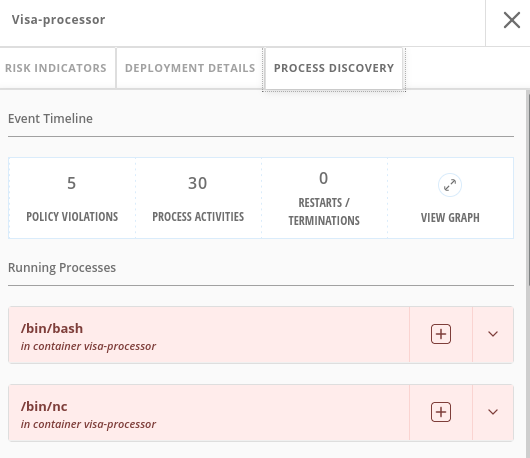
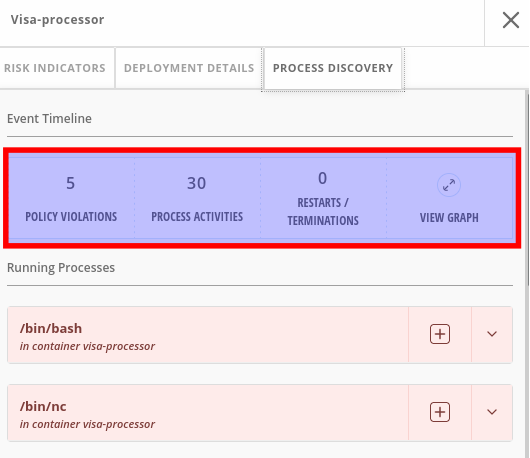
[CI] Publish Documentation for 0530393bc3b122df38d6087175308c16664949ef - 0530393bc3b122df38d6087175308c16664949ef 🚀

diff --git a/acs-workshop/05-risk.html b/acs-workshop/05-risk.html
@@ -388,10 +388,7 @@ Obviously - the first one in the list should be our first focus.</p>
 <div class="ulist">
 <ul>
 <li>
-<p>Click on the number 1 deployment, “visa-processor” to bring up the Risk Indicators</p>
-</li>
-</ul>
-</div>
+<p>Click on the number 1 deployment, <strong>visa-processor</strong> to bring up the <code>RISK INDICATORS</code></p>
 <div class="imageblock">
 <div class="content">
 <img src="_images/risks/02-risks.png" alt="ACS Risks 2" width="350">
@@ -406,20 +403,19 @@ Obviously - the first one in the list should be our first focus.</p>
 <div class="paragraph">
 <p>In addition, other configurations like privileged containers mean that a successful attacker has access to the underlying host network and filesystem, including other containers running on that host.</p>
 </div>
-<div class="ulist">
-<ul>
-<li>
-<p>Navigate to the bottom of the Risk Indicators page to the RBAC configuration section</p>
 </li>
-</ul>
-</div>
+<li>
+<p>Navigate to the bottom of the <code>RISK INDICATORS</code> page to the RBAC configuration section</p>
 <div class="imageblock">
 <div class="content">
 <img src="_images/risks/03-risks.png" alt="ACS Risks 3" width="400">
 </div>
 </div>
 <div class="paragraph">
-<p>At the bottom, we see another serious problem: the service account associated with this deployment has been given “cluster admin” privileges, which means that a successful attacker gains full control over this entire OpenShift cluster which could result in compromise of the entire cluster.</p>
+<p>At the bottom, we see another serious problem: the service account associated with this deployment has been given <code>cluster admin</code> privileges, which means that a successful attacker gains full control over this entire OpenShift cluster which could result in compromise of the entire cluster.</p>
+</div>
+</li>
+</ul>
 </div>
 <div class="paragraph">
 <p>All of these configurations are gleaned automatically by ACS from OpenShift, and the built-in policies assign a risk score to each, meaning that this Risk report is available as soon as you start running ACS.</p>
@@ -430,8 +426,7 @@ Obviously - the first one in the list should be our first focus.</p>
 <h2 id="risk_process_discovery"><a class="anchor" href="#risk_process_discovery"></a>Process Discovery / Runtime</h2>
 <div class="sectionbody">
 <div class="paragraph">
-<p>Navigate to the Process Discovery tab of the details page
-Of course, we can’t restrict ourselves to build and deploy time configuration.</p>
+<p>Navigate to the <code>PROCESS DISCOVERY</code> tab of the details page.</p>
 </div>
 <div class="paragraph">
 <p>Even a perfectly configured application has the potential for an attacker to gain access and cause havoc.</p>
@@ -442,10 +437,7 @@ Of course, we can’t restrict ourselves to build and deploy time configuration.
 <div class="ulist">
 <ul>
 <li>
-<p>Click on the Header bar in the section for Event Timeline (with View Graph in the labels toward the top</p>
-</li>
-</ul>
-</div>
+<p>Click on the header bar within the <code>Event Timeline</code> section ( in the picture, at any point on the surface covered by the red rectangle )</p>
 <div class="imageblock">
 <div class="content">
 <img src="_images/risks/04-risks.png" alt="ACS Risks 4" width="500">
@@ -454,21 +446,27 @@ Of course, we can’t restrict ourselves to build and deploy time configuration.
 <div class="paragraph">
 <p>The event timeline shows us, for each pod, the process activity that has occurred over time.</p>
 </div>
-<div class="ulist">
-<ul>
+</li>
 <li>
 <p>Click on the squares / circles for process activity</p>
-</li>
-</ul>
-</div>
 <div class="imageblock">
 <div class="content">
 <img src="_images/risks/05-risks.png" alt="ACS Risks 5" width="700">
 </div>
 </div>
 <div class="paragraph">
-<p>We can take advantage of the constrained lifecycle of containers for
-better runtime incident detection and response.</p>
+<p>If you click in the <em>greater than</em> symbol (pointed by the red arrow in the above picture) you can expand the activity and see the containers inside the pod.</p>
+</div>
+<div class="imageblock">
+<div class="content">
+<img src="_images/risks/05_1-risks.png" alt="ACS Risks 51" width="700">
+</div>
+</div>
+</li>
+</ul>
+</div>
+<div class="paragraph">
+<p>We can take advantage of the constrained lifecycle of containers for better runtime incident detection and response.</p>
 </div>
 <div class="paragraph">
 <p>Containers should be pretty boring - they’re not general purpose Virtual machines. They typically have a period of startup, with some initialization, and then settle down to a small number of processes running continuously and making or receiving connections.</p>
@@ -488,26 +486,10 @@ better runtime incident detection and response.</p>
 <p>Almost all of the attributes that ACS gathers are filterable</p>
 </div>
 <div class="paragraph">
-<p>It’s really useful here in Risk when you know what you’re looking for - when you want answers to questions like, “what applications have CVE-2020-1008 present,” or “</p>
-</div>
-<div class="ulist">
-<ul>
-<li>
-<p>Click in the Filters Bar. Start Typing “Process Name” and select the Process Name key. Type java and press enter; click away to get the filters dropdown to clear</p>
-</li>
-</ul>
-</div>
-<div class="imageblock">
-<div class="content">
-<img src="_images/risks/06-risks.png" alt="ACS Risks 6" width="700">
-</div>
+<p>It’s really useful here in Risk when you know what you’re looking for - when you want answers to questions like “what applications have CVE-2020-1008 present".</p>
 </div>
 <div class="paragraph">
-<p>There’s three deployments that have been “seen” running bash since they started - and all of them in Production.</p>
-</div>
-<div class="paragraph">
-<p>At the upper right there’s a Create Policy button. Now that we’ve searched for interesting criteria, we can create a policy from the
-search filter to automatically identify this criteria going forward:</p>
+<p>For example, let&#8217;s use the following filters:</p>
 </div>
 <div class="listingblock console-input">
 <div class="content">
@@ -515,6 +497,39 @@ search filter to automatically identify this criteria going forward:</p>
 Process Name - Java
 CVE - CVE-2017-7376 (libxml2)</code></pre>
 </div>
+</div>
+<div class="paragraph">
+<p><strong>Translated:</strong> "Finding deployments that are running <code>java</code> processes and are affected by the <code>CVE-2017-7376</code> vulnerability".</p>
+</div>
+<div class="ulist">
+<ul>
+<li>
+<p>Click in the <code>Filters</code> bar (at the top, red rectangle). Start Typing "Process Name" and select the <code>Process Name</code> key ones it appears / autocompletes. Then type <code>java</code>, press enter and click away to get the filters dropdown to clear.</p>
+<div class="imageblock">
+<div class="content">
+<img src="_images/risks/06-risks.png" alt="ACS Risks 6" width="800">
+</div>
+</div>
+<div class="paragraph">
+<p>Do the same to add the <code>CVE</code> filter (is one of the keys shown by default).</p>
+</div>
+</li>
+</ul>
+</div>
+<div class="admonitionblock tip">
+<table>
+<tr>
+<td class="icon">
+<i class="fa icon-tip" title="Tip"></i>
+</td>
+<td class="content">
+<div class="paragraph">
+<p>Now that we’ve searched for interesting criteria, we can create a policy from the search filter to automatically identify our criteria going forward.
+We can do that by clicking the <code>Create Policy</code> button, at the upper right (indicated by the red arrow in the above picture) and following the form steps.</p>
+</div>
+</td>
+</tr>
+</table>
 </div>
 <div class="paragraph">
 <p>Now let&#8217;s review the Network Graph and the Network Policies in RH ACS!</p>
